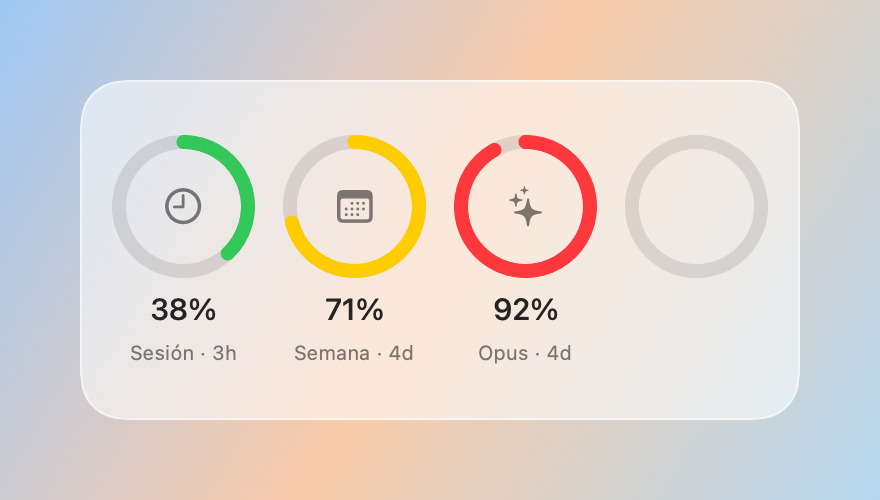
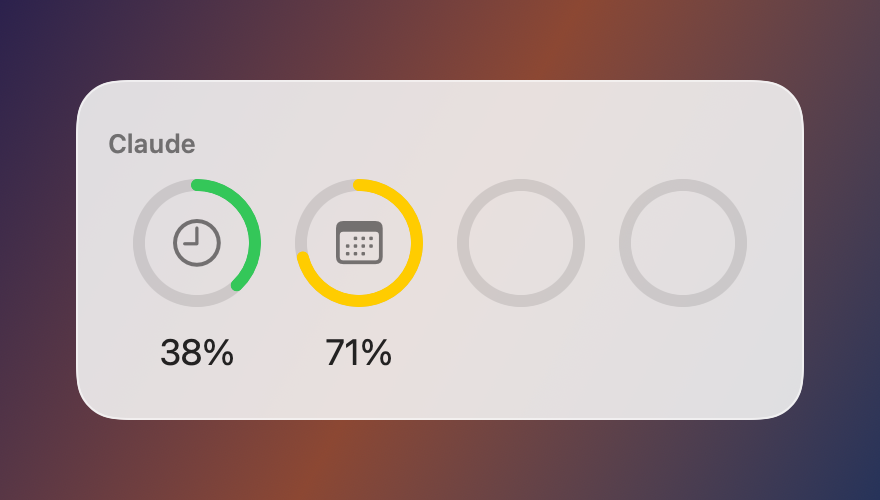
docs: update README and screenshots for provider widgets
Install from the release zip without Xcode; building from source moves
to its own section. Document the provider picker, widget refresh lag and
macOS 15 Sequoia requirement, and regenerate the widget screenshots.

---

docs: actualizar README y capturas para los widgets por proveedor

Instalación desde el zip de la release sin Xcode; compilar desde el
código pasa a su propia sección. Documenta el selector de proveedor, el
retraso de actualización del widget y el requisito de macOS 15 Sequoia,
y regenera las capturas del widget.

diff --git a/README.es.md b/README.es.md
@@ -2,10 +2,10 @@
 
 # AI Usage
 
-Widget de escritorio para macOS que muestra el uso de tu suscripción de Claude (sesión de 5 h, semanal y Opus/Sonnet) en anillos, al estilo del widget de Baterías. OpenAI llegará en una fase 2.
+Widget de escritorio para macOS que muestra el uso de tu suscripción de Claude (sesión de 5 h y semanal) en anillos, al estilo del widget de Baterías. Cada widget muestra un proveedor, que eliges en los ajustes del widget. OpenAI llegará en una fase 2.
 
 <p align="center">
-  <img src="docs/images/widget-medium-dark.png" width="440" alt="Widget mediano en modo oscuro: sesión 38 %, semana 71 %, Opus 92 %">
+  <img src="docs/images/widget-medium-dark.png" width="440" alt="Widget mediano en modo oscuro: sesión 38 %, semana 71 %">
 </p>
 
 > Las imágenes usan datos de ejemplo.
@@ -16,17 +16,25 @@ Widget de escritorio para macOS que muestra el uso de tu suscripción de Claude 
 |---|---|
 |  **Sesión** | Límite de la ventana de 5 horas |
 |  **Semana** | Límite semanal de todos los modelos |
-|  **Opus / Sonnet** | Límite semanal específico del modelo (vacío si tu plan no lo tiene) |
-|  | Reservado para OpenAI |
+|  |  |
 
-El color cambia según el uso: **verde** por debajo del 60 %, **amarillo** hasta el 85 % y **rojo** a partir de ahí. Debajo de cada anillo se indica cuánto falta para que se reinicie.
+El color cambia según el uso: **verde** por debajo del 60 %, **amarillo** hasta el 85 % y **rojo** a partir de ahí. El icono dentro de cada anillo indica qué límite es; las horas exactas de reinicio están en la app de la barra de menú.
 
 <p align="center">
   <img src="docs/images/widget-medium-light.png" width="440" alt="Widget mediano en modo claro">
   <img src="docs/images/widget-small-dark.png" width="250" alt="Widget pequeño con sesión y semana">
 </p>
 
-Hay dos tamaños: **mediano** (4 anillos) y **pequeño** (sesión y semana). Ambos se adaptan al modo claro y al oscuro.
+Hay dos tamaños, **pequeño** y **mediano**, y los dos muestran sesión y semana. El mediano deja dos anillos vacíos, como el widget de Baterías. Ambos se adaptan al modo claro y al oscuro.
+
+### Elegir proveedor
+
+El nombre del proveedor aparece arriba del widget, así siempre está claro de quién es el uso que ves. Para cambiarlo: clic derecho en el widget → **Editar "AI Usage"** → **Proveedor**. Para ver varios proveedores, añade un widget por cada uno.
+
+| Proveedor | Estado |
+|---|---|
+| Claude | Disponible |
+| OpenAI | Próximamente (el widget muestra anillos vacíos y "Próximamente") |
 
 ### Barra de menú
 
@@ -46,37 +54,30 @@ Si la sesión de Claude Code caduca, o la app lleva más de 30 minutos sin actua
 
 ## Requisitos
 
-- macOS 15 o posterior
-- **Xcode** completo (App Store), no solo las Command Line Tools. Ábrelo una vez para aceptar la licencia.
-- **XcodeGen**: `brew install xcodegen`
-- **Certificado "Apple Development"**. Sirve una cuenta Apple gratuita:
-  Xcode → Settings → Accounts → `+` → Apple ID → selecciona el equipo → *Manage Certificates…* → `+` → *Apple Development*.
+- macOS 15 Sequoia o posterior
 - **Claude Code** instalado y con sesión iniciada (`claude`). El widget lee esa sesión del Keychain.
 
 ## Instalar
 
-```sh
-git clone <este repo>
-cd widget-ai-usage
-make install
-```
+1. Descarga `AIUsage-<versión>.zip` de la [última release](https://github.com/AlexiMarin/widget-ai-usage/releases/latest).
+2. Descomprímelo y arrastra **AIUsage.app** a **Aplicaciones**.
+3. Ábrela. Debe aparecer `✳ N%` en la barra de menú. En el menú, activa **Abrir al iniciar sesión**.
+4. Clic derecho en el escritorio → **Editar widgets** → busca **AI Usage**.
+5. Opcional: clic derecho en el widget → **Editar "AI Usage"** para elegir el proveedor (Claude por defecto).
 
-Esto genera el proyecto, compila con tu certificado e instala `AIUsage.app` en `~/Applications`. Después:
+### El widget no coincide con la barra de menú
 
-1. Debe aparecer `✳ N%` en la barra de menú. En el menú, activa **Abrir al iniciar sesión**.
-2. Clic derecho en el escritorio → **Editar widgets** → busca **AI Usage**.
-
-`make check` comprueba solo los requisitos. Si tienes varios certificados de distintos equipos, elige uno con `make install TEAM_ID=XXXXXXXXXX`.
+macOS decide cuándo se redibujan los widgets y limita cuántas veces pueden actualizarse, así que el widget puede ir unos minutos por detrás de la barra de menú. Después de actualizar la app, quita el widget y vuelve a añadirlo para que macOS cargue la versión nueva.
 
 ### Abrir la app de nuevo
 
-Si la cierras, el widget deja de actualizarse. Para volver a abrirla: `⌘ Espacio` → **AI Usage**, o `open ~/Applications/AIUsage.app`.
+Si la cierras, el widget deja de actualizarse. Para volver a abrirla: `⌘ Espacio` → **AI Usage**, o `open -a AIUsage`.
 
 ### Desinstalar
 
 1. En el menú, desactiva **Abrir al iniciar sesión** y pulsa **Salir**.
 2. Quita el widget del escritorio.
-3. Borra la app: `rm -rf ~/Applications/AIUsage.app`
+3. Mueve **AIUsage.app** a la Papelera (está en Aplicaciones, o en `~/Applications` si la compilaste tú).
 
 ## Cómo funciona
 
@@ -97,3 +98,22 @@ Widget (sandbox, sin red)
 - El token solo se guarda en memoria y solo se envía a `api.anthropic.com` por HTTPS. No se escribe en disco ni en logs.
 - La app **nunca renueva la sesión** (eso cerraría tu sesión de Claude Code). Si caduca, se arregla sola al volver a usar Claude Code.
 - Es el mismo endpoint que usa `/usage` en Claude Code. No está documentado y podría cambiar.
+
+## Compilar desde el código
+
+Solo si quieres modificar la app. Necesitas además:
+
+- **Xcode** completo (App Store), no solo las Command Line Tools. Ábrelo una vez para aceptar la licencia.
+- **XcodeGen**: `brew install xcodegen`
+- **Certificado "Apple Development"**. Sirve una cuenta Apple gratuita:
+  Xcode → Settings → Accounts → `+` → Apple ID → selecciona el equipo → *Manage Certificates…* → `+` → *Apple Development*.
+
+```sh
+git clone https://github.com/AlexiMarin/widget-ai-usage.git
+cd widget-ai-usage
+make install
+```
+
+Esto genera el proyecto, compila con tu certificado e instala `AIUsage.app` en `~/Applications`. `make check` comprueba solo los requisitos. Si tienes varios certificados de distintos equipos, elige uno con `make install TEAM_ID=XXXXXXXXXX`.
+
+`make release` genera el zip firmado con Developer ID y notarizado para publicar una release (los pasos previos están en la cabecera de `scripts/release.sh`).

diff --git a/README.md b/README.md
@@ -2,10 +2,10 @@
 
 # AI Usage
 
-A macOS desktop widget that shows your Claude subscription usage (5-hour session, weekly, and Opus/Sonnet) as rings, in the style of the Batteries widget. OpenAI support is planned for phase 2.
+A macOS desktop widget that shows your Claude subscription usage (5-hour session and weekly) as rings, in the style of the Batteries widget. Each widget shows one provider, picked in the widget's settings. OpenAI support is planned for phase 2.
 
 <p align="center">
-  <img src="docs/images/widget-medium-dark.png" width="440" alt="Medium widget in dark mode: session 38%, week 71%, Opus 92%">
+  <img src="docs/images/widget-medium-dark.png" width="440" alt="Medium widget in dark mode: session 38%, week 71%">
 </p>
 
 > The screenshots use sample data. The app's interface is in Spanish.
@@ -16,17 +16,24 @@ A macOS desktop widget that shows your Claude subscription usage (5-hour session
 |---|---|
 |  **Sesión** (Session) | 5-hour window limit |
 |  **Semana** (Week) | Weekly limit across all models |
-|  **Opus / Sonnet** | Model-specific weekly limit (empty if your plan doesn't have one) |
-|  | Reserved for OpenAI |
 
-The color changes with usage: **green** below 60%, **yellow** up to 85%, and **red** above that. Below each ring you'll see how long until it resets.
+The color changes with usage: **green** below 60%, **yellow** up to 85%, and **red** above that. The icon inside each ring tells you which limit it is; the exact reset times are in the menu bar app.
 
 <p align="center">
   <img src="docs/images/widget-medium-light.png" width="440" alt="Medium widget in light mode">
   <img src="docs/images/widget-small-dark.png" width="250" alt="Small widget with session and week">
 </p>
 
-There are two sizes: **medium** (4 rings) and **small** (session and week). Both adapt to light and dark mode.
+There are two sizes, **small** and **medium**, both showing session and week. Medium leaves two empty rings, like the Batteries widget. Both adapt to light and dark mode.
+
+### Choosing a provider
+
+The provider's name appears at the top of the widget, so it's always clear whose usage you're looking at. To change it, right-click the widget → **Edit "AI Usage"** → **Proveedor** (Provider). To watch more than one provider, add one widget per provider.
+
+| Provider | Status |
+|---|---|
+| Claude | Available |
+| OpenAI | Coming soon (the widget shows empty rings and "Próximamente") |
 
 ### Menu bar
 
@@ -46,37 +53,30 @@ If your Claude Code session expires, or the app hasn't refreshed in more than 30
 
 ## Requirements
 
-- macOS 15 or later
-- Full **Xcode** (App Store), not just the Command Line Tools. Open it once to accept the license.
-- **XcodeGen**: `brew install xcodegen`
-- An **"Apple Development" certificate**. A free Apple account works:
-  Xcode → Settings → Accounts → `+` → Apple ID → select the team → *Manage Certificates…* → `+` → *Apple Development*.
+- macOS 15 Sequoia or later
 - **Claude Code** installed and signed in (`claude`). The widget reads that session from the Keychain.
 
 ## Install
 
-```sh
-git clone <this repo>
-cd widget-ai-usage
-make install
-```
+1. Download `AIUsage-<version>.zip` from the [latest release](https://github.com/AlexiMarin/widget-ai-usage/releases/latest).
+2. Unzip it and drag **AIUsage.app** to **Applications**.
+3. Open it. `✳ N%` should appear in the menu bar. In the menu, turn on **Abrir al iniciar sesión** (Open at login).
+4. Right-click the desktop → **Edit Widgets** → search for **AI Usage**.
+5. Optional: right-click the widget → **Edit "AI Usage"** to pick the provider (Claude by default).
 
-This generates the project, builds it with your certificate, and installs `AIUsage.app` in `~/Applications`. Then:
+### Widget doesn't match the menu bar
 
-1. `✳ N%` should appear in the menu bar. In the menu, turn on **Abrir al iniciar sesión** (Open at login).
-2. Right-click the desktop → **Edit Widgets** → search for **AI Usage**.
-
-`make check` only checks the requirements. If you have several certificates from different teams, pick one with `make install TEAM_ID=XXXXXXXXXX`.
+macOS decides when widgets redraw and limits how often they can update, so the widget can lag the menu bar by a few minutes. After updating the app, remove the widget and add it again so macOS picks up the new version.
 
 ### Reopening the app
 
-If you quit it, the widget stops updating. To open it again: `⌘ Space` → **AI Usage**, or `open ~/Applications/AIUsage.app`.
+If you quit it, the widget stops updating. To open it again: `⌘ Space` → **AI Usage**, or `open -a AIUsage`.
 
 ### Uninstall
 
 1. In the menu, turn off **Abrir al iniciar sesión** (Open at login) and click **Salir** (Quit).
 2. Remove the widget from the desktop.
-3. Delete the app: `rm -rf ~/Applications/AIUsage.app`
+3. Move **AIUsage.app** to the Trash (it is in Applications, or in `~/Applications` if you built it yourself).
 
 ## How it works
 
@@ -97,3 +97,22 @@ Widget (sandboxed, no network)
 - The token is kept only in memory and is sent only to `api.anthropic.com` over HTTPS. It is never written to disk or logs.
 - The app **never refreshes the session** (that would sign you out of Claude Code). If it expires, it fixes itself the next time you use Claude Code.
 - It's the same endpoint that `/usage` uses in Claude Code. It's undocumented and could change.
+
+## Building from source
+
+Only if you want to modify the app. You'll also need:
+
+- Full **Xcode** (App Store), not just the Command Line Tools. Open it once to accept the license.
+- **XcodeGen**: `brew install xcodegen`
+- An **"Apple Development" certificate**. A free Apple account works:
+  Xcode → Settings → Accounts → `+` → Apple ID → select the team → *Manage Certificates…* → `+` → *Apple Development*.
+
+```sh
+git clone https://github.com/AlexiMarin/widget-ai-usage.git
+cd widget-ai-usage
+make install
+```
+
+This generates the project, builds it with your certificate, and installs `AIUsage.app` in `~/Applications`. `make check` only checks the requirements. If you have several certificates from different teams, pick one with `make install TEAM_ID=XXXXXXXXXX`.
+
+`make release` builds the Developer ID–signed, notarized zip for publishing a release (one-time setup is described at the top of `scripts/release.sh`).
